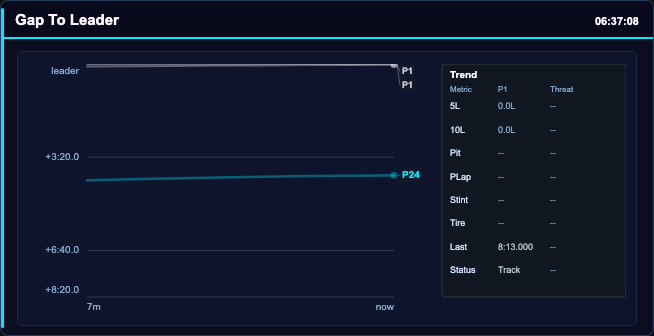
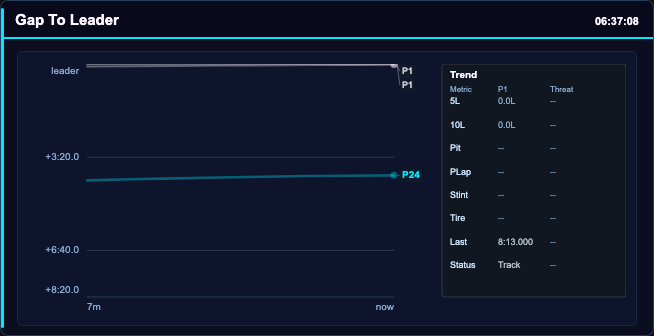
Fix gap graph metric row parity

diff --git a/src/TmrOverlay.App/Overlays/BrowserSources/Assets/scripts/overlay-shell.js b/src/TmrOverlay.App/Overlays/BrowserSources/Assets/scripts/overlay-shell.js
@@ -931,20 +931,9 @@
     function drawGapFocusedMetricsTable(ctx, rect, graph) {
       const metrics = Array.isArray(graph?.trendMetrics) && graph.trendMetrics.length > 0
         ? graph.trendMetrics
-        : [
-            { label: '5L', state: 'unavailable' },
-            { label: '10L', state: 'unavailable' },
-            { label: 'Pit', state: 'unavailable' },
-            { label: 'PLap', state: 'unavailable' },
-            { label: 'Stint', state: 'unavailable' },
-            { label: 'Tire', state: 'unavailable' },
-            { label: 'Last', state: 'unavailable' },
-            { label: 'Status', state: 'unavailable' }
-          ];
+        : [];
       const visibleMetrics = metrics.filter(Boolean);
-      const showThreatFooter = visibleMetrics.length <= 6;
-      const rowAreaBottomPadding = showThreatFooter ? 48 : 8;
-      const rowHeight = Math.max(9.5, Math.min(26, (rect.height - rowAreaBottomPadding - 38) / Math.max(1, visibleMetrics.length)));
+      const rowHeight = Math.max(9.5, Math.min(26, (rect.height - 8 - 38) / Math.max(1, visibleMetrics.length)));
       ctx.save();
       ctx.lineWidth = 1;
       drawRoundedRect(
@@ -969,7 +958,7 @@
 
       ctx.font = `${rowHeight < 16 ? '8px' : '9px'} "Segoe UI", Arial, sans-serif`;
       visibleMetrics.forEach((metric, index) => {
-        const y = rect.top + 43 + index * rowHeight;
+        const y = rect.top + 38 + index * rowHeight;
         ctx.fillStyle = themeColor('--tmr-text-secondary', '#cdd8e4');
         ctx.fillText(metric?.label || '--', rect.left + 8, y);
         ctx.fillStyle = gapMetricValueColor(metric, numberOr(graph?.metricDeadbandSeconds, 0.25));
@@ -977,30 +966,6 @@
         ctx.fillStyle = gapMetricChaserColor(metric);
         ctx.fillText(gapMetricChaserText(metric), rect.left + 108, y);
       });
-
-      if (showThreatFooter) {
-        const threat = graph?.activeThreat || metrics.find((metric) => metric?.chaser);
-        const threatY = rect.top + rect.height - 28;
-        const footerStroke = threat?.chaser
-          ? colorWithAlpha(themeColor('--tmr-error', '#ec7063'), 0.34)
-          : 'rgba(255, 255, 255, 0.10)';
-        drawRoundedRect(
-          ctx,
-          rect.left + 8,
-          threatY,
-          rect.width - 16,
-          20,
-          3,
-          threat?.chaser ? 'rgba(236, 112, 99, 0.14)' : 'rgba(255, 255, 255, 0.055)',
-          footerStroke);
-        ctx.font = '700 8px "Segoe UI", Arial, sans-serif';
-        ctx.fillStyle = threat?.chaser
-          ? themeColor('--tmr-error', '#ec7063')
-          : 'rgba(140, 174, 212, 0.72)';
-        ctx.fillText(threat?.chaser
-          ? `Threat ${threat.chaser.label || `#${threat.chaser.carIdx ?? '--'}`} ${formatFocusedTrendChangeSeconds(-threat.chaser.gainSeconds)}`
-          : 'Threat --', rect.left + 14, threatY + 10);
-      }
       ctx.restore();
     }
 